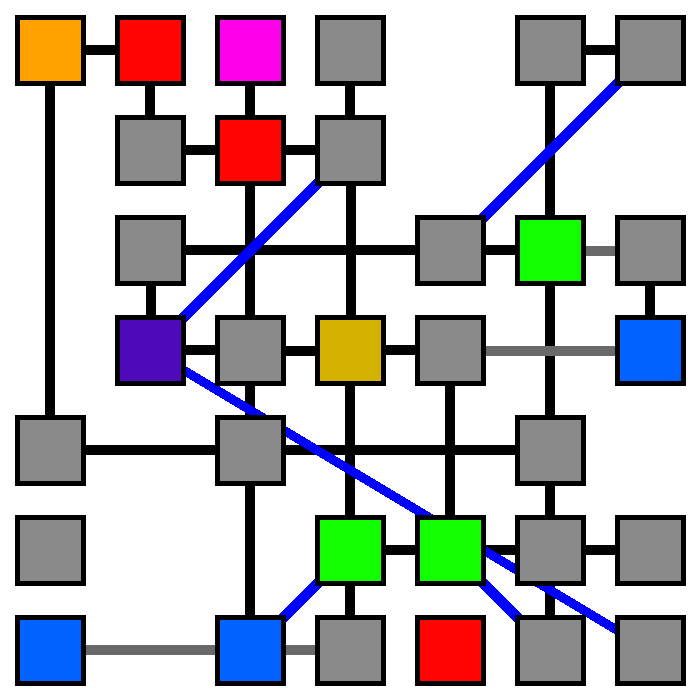
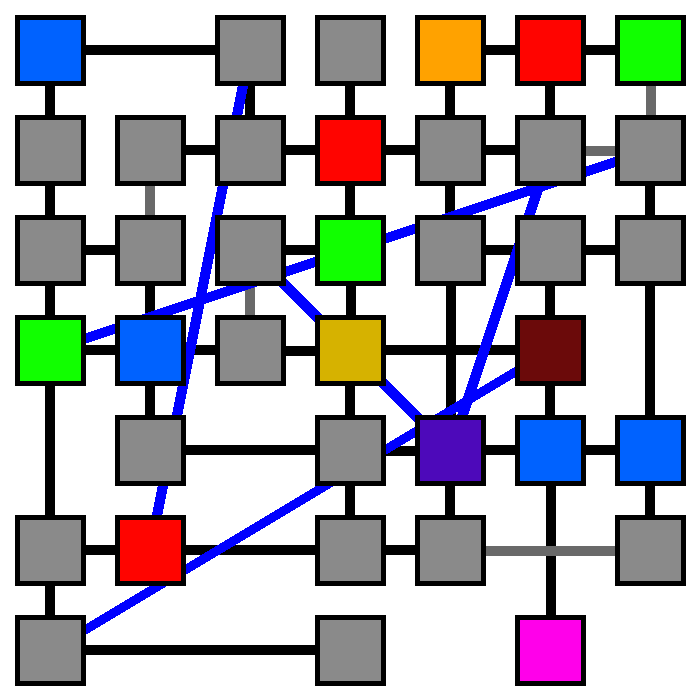
added gambling space

diff --git a/main.py b/main.py
@@ -13,6 +13,7 @@ PROBABILITY_ONE_WAY = 0.1
 NUM_PLAYERS = 3
 STARTING_GOLD = 3
 CHANCE_OF_INFLATION = 0.5
+BLACKJACK_TARGET = 31
 
 #colourings
 def getColour(r, g, b, background=False):
@@ -38,6 +39,7 @@ GOOD_SPACE = getColour(17, 255, 0)
 BAD_SPACE = getColour(255, 4, 0)
 SHOP_SPACE = getColour(0, 98, 255)
 TELEPORT_SPACE = getColour(255, 162, 0)
+GAMBLING_SPACE = getColour(107, 10, 10)
 
 def fillSpaces(board, fillWith, howMany):
     linearBoard = sum(board, [])
@@ -165,6 +167,7 @@ def generateBoard():
     board = fillSpaces(board, 'bad', numEmpties // 10)
     board = fillSpaces(board, 'shop', numEmpties // 8)
     board = fillSpaces(board, 'teleport', numEmpties // 20)
+    board = fillSpaces(board, 'gambling', numEmpties // 20)
     #get positions of flamingo and shadow realm and home
     for n, row in enumerate(board):
         for m, cell in enumerate(row):
@@ -273,6 +276,8 @@ def generateImage(board, paths):
                 colour = '#0062ff'
             if cell == 'teleport':
                 colour = '#ffa200'
+            if cell == 'gambling':
+                colour = '#6b0a0a'
             if cell != None:
                 draw.rectangle((m*100+15, n*100+15, m*100+85, n*100+85), fill=ImageColor.getcolor(colour, 'RGBA'), outline=ImageColor.getcolor('#000000', 'RGBA'), width=5)
         
@@ -707,6 +712,204 @@ def useItem():
                         player = int(askForPlayer(f'{TURQUOISE}Enter the player who will spin the {RED}Bad Wheel{TURQUOISE} at the start of their next turn: (1-{NUM_PLAYERS}){CLEAR} ', True))
                         playerWaitingForWheelSpins[player] = True
 
+def playBlackjack():
+    def getCardColour(card):
+        if 'Hearts' in card or 'Diamonds' in card:
+            return f'{getColour(219, 72, 72)}{card}\033[0m'
+        else:
+            return f'{getColour(148, 148, 148)}{card}\033[0m'
+
+    def getHandValueColour(value):
+        if value < BLACKJACK_TARGET-6:
+            return f' {GREEN}{value}\033[0m'
+        elif value < BLACKJACK_TARGET-1:
+            return f' {YELLOW}{value}\033[0m'
+        elif value < BLACKJACK_TARGET+1:
+            return f' {ORANGE}{value}\033[0m'
+        else:
+            return f' {RED}{value}\033[0m'
+    
+    def findValue(card):
+        card = card.replace(' of ', '')
+        card = card.replace('Hearts', '')
+        card = card.replace('Diamonds', '')
+        card = card.replace('Spades', '')
+        card = card.replace('Clubs', '')
+        try:
+            value = int(card)
+        except:
+            if card == 'Ace':
+                value = 11
+            else:
+                value = 10
+        return value
+
+    def sayHand(person='player'):
+        if person == 'dealer':
+            print(f'{CYAN}The Dealer\'s hand is:{CLEAR}')
+            for card in dealerhand:
+                print(getCardColour(card))
+            print(f'Dealer hand value is{getHandValueColour(dealerhandValue)}\n')
+        if person == 'player':
+            print(f'{CYAN}Your hand is:{CLEAR}')
+            for card in hand:
+                print(getCardColour(card))
+            print(f'Your hand value is{getHandValueColour(handValue)}\n')
+    
+    def sayMostRecentCard():
+        print(f'{CYAN}You drew a: {getCardColour(hand[-1])}{CLEAR}')
+        print(f'Your hand value is now{getHandValueColour(handValue)}\n')
+
+    suits = ['Hearts', 'Diamonds', 'Spades', 'Clubs']
+    cards = ['Ace', '2', '3', '4', '5', '6', '7', '8', '9', '10', 'Jack', 'Queen', 'King']
+
+    bet = 0
+    print(f'How much would you like to bet? (You have {YELLOW}{playerGolds[currentPlayer]} gold{CLEAR})')
+    while bet == 0:
+        bet = int(askOptions(f'{TURQUOISE}Enter your choice:{CLEAR} ', playerGolds[currentPlayer]))
+        if bet == 0:
+            print(f'{ERROR}You cannot bet 0!{CLEAR}')
+
+    youBusted = None
+    dealerBusted = None
+
+    acesInHand = 0
+    card1 = f'{random.choice(cards)} of {random.choice(suits)}'
+    card1Value = findValue(card1)
+    if 'Ace' in card1:
+        acesInHand += 1
+    card2 = f'{random.choice(cards)} of {random.choice(suits)}'
+    card2Value = findValue(card2)
+    if 'Ace' in card2:
+        acesInHand += 1
+    cardAmount = 2
+    hand = [card1, card2]
+    handValue = card1Value + card2Value
+    if handValue == BLACKJACK_TARGET+1:
+        handValue -= 10
+        acesInHand -= 1
+
+    #set up dealer stuff
+    dealeracesInHand = 0
+    dealercard1 = f'{random.choice(cards)} of {random.choice(suits)}'
+    dealercard1Value = findValue(dealercard1)
+    if 'Ace' in dealercard1:
+        dealeracesInHand += 1
+    dealercard2 = f'{random.choice(cards)} of {random.choice(suits)}'
+    dealercard2Value = findValue(dealercard2)
+    if 'Ace' in dealercard2:
+        dealeracesInHand += 1
+    dealercardAmount = 2
+    dealerhand = [dealercard1, dealercard2]
+    dealerhandValue = dealercard1Value + dealercard2Value
+    if dealerhandValue == BLACKJACK_TARGET+1:
+        dealerhandValue -= 10
+        dealeracesInHand -= 1
+
+    #let dealer simulate game
+    dealerdoneDrawing = False
+    while dealerdoneDrawing == False:
+        if dealerhandValue <= BLACKJACK_TARGET-5:
+            dealercardAmount += 1
+            globals()[f'dealercard{dealercardAmount}'] = f'{random.choice(cards)} of {random.choice(suits)}'
+            if 'Ace' in globals()[f'dealercard{dealercardAmount}']:
+                dealeracesInHand += 1
+            globals()[f'dealercard{dealercardAmount}Value'] = findValue(globals()[f'dealercard{dealercardAmount}'])
+            dealerhand.append(globals()[f'dealercard{dealercardAmount}'])
+            dealerhandValue += globals()[f'dealercard{dealercardAmount}Value']
+            if dealerhandValue > BLACKJACK_TARGET-5:
+                if dealerhandValue > BLACKJACK_TARGET:
+                    if dealeracesInHand != 0:
+                        dealerhandValue -= 10
+                        dealeracesInHand -= 1
+                    else:
+                        dealerdoneDrawing = True
+                        dealerBusted = True
+                elif dealerhandValue <= BLACKJACK_TARGET:
+                    dealerdoneDrawing = True
+                    dealerBusted = False
+        else:
+            dealerdoneDrawing = True
+            dealerBusted = False
+    dealerShownCard = random.choice(dealerhand)
+    print(f'{ORANGE}The dealer has {dealercardAmount} cards{CLEAR}')
+    print(f'One of the dealer\'s cards is: {getCardColour(dealerShownCard)}{CLEAR}\n')
+    
+    doneDrawing = False
+    while doneDrawing == False:
+        if len(hand) == 2:
+            sayHand()
+        else:
+            sayMostRecentCard()
+        draw = ''
+        if handValue == BLACKJACK_TARGET:
+            doneDrawing = True
+            youBusted = False
+            print(f'{GREEN}You scored Blackjack!{CLEAR}')
+            input('Press Enter to see the results')
+        else:
+            print(f'Would you like to {GREEN}draw{CLEAR}?')
+            print('0: Yes')
+            print('1: No')
+            draw = askOptions(f'{TURQUOISE}Enter your choice:{CLEAR} ', 1)
+            if draw == '0':
+                #draw
+                cardAmount += 1
+                globals()[f'card{cardAmount}'] = f'{random.choice(cards)} of {random.choice(suits)}'
+                if 'Ace' in globals()[f'card{cardAmount}']:
+                    acesInHand += 1
+                globals()[f'card{cardAmount}Value'] = findValue(globals()[f'card{cardAmount}'])
+                hand.append(globals()[f'card{cardAmount}'])
+                handValue += globals()[f'card{cardAmount}Value']
+                print('')
+                if handValue > BLACKJACK_TARGET:
+                    if acesInHand != 0:
+                        handValue -= 10
+                        acesInHand -= 1
+                    else:
+                        doneDrawing = True
+                        youBusted = True
+                        sayMostRecentCard()
+                        print(f'{ORANGE}You busted!{CLEAR}')
+                        time.sleep(0.5)
+                elif handValue == BLACKJACK_TARGET:
+                    doneDrawing = True
+                    youBusted = False
+                    sayMostRecentCard()
+                    print(f'{GREEN}You scored Blackjack!{CLEAR}')
+                    time.sleep(0.5)
+            elif draw == '1':
+                doneDrawing = True
+                if handValue <= BLACKJACK_TARGET:
+                    youBusted = False
+    
+    print(f'{CLEAR}\n---RESULTS---\n')
+    sayHand('player')
+    sayHand('dealer')
+
+    if youBusted == True and dealerBusted == True:
+        print(f'{YELLOW}Both of you busted, so no one wins!{CLEAR}')
+    elif youBusted == True and dealerBusted == False:
+        print(f'{RED}You busted! That means the dealer wins!{CLEAR}')
+        playerGolds[currentPlayer] -= bet
+        print(f'You lost {YELLOW}{bet} gold{CLEAR}!')
+    elif youBusted == False and dealerBusted == True:
+        print(f'{GREEN}The dealer busted! That means you win!{CLEAR}')
+        playerGolds[currentPlayer] += bet
+        print(f'You won {YELLOW}{bet} gold{CLEAR}!')
+    elif youBusted == False and dealerBusted == False:
+        print('No one busted, so the person with the highest number wins...')
+        if handValue > dealerhandValue:
+            print(f'{GREEN}You win!{CLEAR}')
+            playerGolds[currentPlayer] += bet
+            print(f'You won {YELLOW}{bet} gold{CLEAR}!')
+        else:
+            print(f'{RED}Dealer wins!{CLEAR}')
+            playerGolds[currentPlayer] -= bet
+            print(f'You lost {YELLOW}{bet} gold{CLEAR}!')
+    
+    print(f'You now have {YELLOW}{playerGolds[currentPlayer]} gold{CLEAR}.')
+
 def selectRandomSpace(board):
     validSpace = False
     while not validSpace:
@@ -876,6 +1079,13 @@ while running:
                 print(f'You get to choose a player to randomly {TELEPORT_SPACE}teleport{CLEAR}!')
                 player = int(askForPlayer(f'{TURQUOISE}Enter the player who will be randomly teleported: (1-{NUM_PLAYERS}){CLEAR} ', False))
                 playerPositions[player] = selectRandomSpace(board)
+            if spaceType == 'gambling':
+                print(f'You landed on a {GAMBLING_SPACE}gambling{CLEAR} space.')
+                if playerGolds[currentPlayer] > 0:
+                    print(f'You must play {ORANGE}Blackjack{CLEAR} with the computer (but up to {GREEN}{BLACKJACK_TARGET}{CLEAR} instead of {GREEN}21{CLEAR}).')
+                    playBlackjack()
+                else:
+                    print(f'Unfortunately, you do not have any {YELLOW}gold{CLEAR} to gamble!')
     #ask for item use
     if running == True:
         if len(playerInventories[currentPlayer]) > 0:
